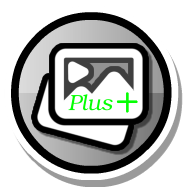
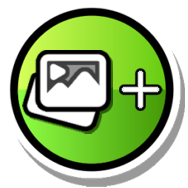
finally notification center isnt hardcoded xddd and assets upgrade

diff --git a/src/main.cpp b/src/main.cpp
@@ -21,7 +21,6 @@ class $modify(MyCreatorLayer, CreatorLayer)
 		auto myButton = CCMenuItemSpriteExtra::create(
 			CCSprite::create("betterThumbnailButton.png"_spr),
 			this,
-
 			menu_selector(MyCreatorLayer::onMyButton));
 
 		auto menu = this->getChildByID("bottom-right-menu");
@@ -30,6 +29,8 @@ class $modify(MyCreatorLayer, CreatorLayer)
 		myButton->setID("better-thumbnails-button"_spr);
 
 		menu->updateLayout();
+
+		this->setTouchEnabled(false);
 
 		return true;
 	}
@@ -44,7 +45,7 @@ class $modify(MyCreatorLayer, CreatorLayer)
 		{
 			geode::createQuickPopup("Notice", "To use the Better Level Thumbnails Mod you must <cg>authenticate</c> with your Geometry Dash account and the Level Thumbnails servers.", "No", "Authenticate", [this](auto alert, bool btn2)
 									{
-            if (btn2){
+			if (btn2){
 				// loading background
 				auto winSize = CCDirector::sharedDirector()->getWinSize();
 				auto bg = CCLayerColor::create({0, 0, 0, 200});
@@ -56,6 +57,7 @@ class $modify(MyCreatorLayer, CreatorLayer)
 				loadingLabel->setPosition({winSize.width / 2.f, winSize.height / 2.f});
 				loadingLabel->setScale(0.5f);
 				this->addChild(loadingLabel, 100);
+				this->setTouchEnabled(false);
 
 				// start the argon auth process
 				auto res = argon::startAuth([this, bg, loadingLabel](Result<std::string> res){
@@ -63,6 +65,7 @@ class $modify(MyCreatorLayer, CreatorLayer)
 						FLAlertLayer::create("Oops!","The <cy>Argon</c> auth process failed.","OK")->show();
 						bg->removeFromParent();
 						loadingLabel->removeFromParent();
+						this->setTouchEnabled(true);
 						return;
 					}
 					auto argon_token = res.unwrap();
@@ -79,7 +82,7 @@ class $modify(MyCreatorLayer, CreatorLayer)
 						})
 					);
 
-    				auto task = req.post("https://levelthumbs.prevter.me/auth/login");
+					auto task = req.post("https://levelthumbs.prevter.me/auth/login");
 
 					m_listener.bind([this, loadingLabel, bg](web::WebTask::Event* e){
 						if (auto res = e->getValue()){
@@ -89,6 +92,7 @@ class $modify(MyCreatorLayer, CreatorLayer)
 								FLAlertLayer::create("Oops",error,"OK")->show();
 								bg->removeFromParent();
 								loadingLabel->removeFromParent();
+								this->setTouchEnabled(true);
 								delete this;
 								return;
 							}
@@ -107,8 +111,8 @@ class $modify(MyCreatorLayer, CreatorLayer)
 						}
 					});
 					m_listener.setFilter(task);
-                });
-            } });
+				});
+			} });
 		}
 	}
 };

diff --git a/src/ui/NotificationUI.cpp b/src/ui/NotificationUI.cpp
@@ -32,7 +32,7 @@ bool NotificationUI::init(const std::string &title, const std::string &message)
 
     auto winSize = CCDirector::sharedDirector()->getWinSize();
 
-    float centerX = winSize.width / 2.f - 149.f;
+    float centerX = winSize.width / 2.f - popupWidth / 2.f;
     float startY = winSize.height + popupHeight;
     float endY = winSize.height - popupHeight / 2.f - 50.f;
     this->setPosition({centerX, startY});
@@ -58,6 +58,6 @@ NotificationUI *NotificationUI::create(const std::string &title, const std::stri
         ret->autorelease();
         return ret;
     }
-    delete ret;
+    CC_SAFE_DELETE(ret);
     return nullptr;
 }

diff --git a/src/ui/BetterThumbnailLayer.cpp b/src/ui/BetterThumbnailLayer.cpp
@@ -94,15 +94,6 @@ bool BetterThumbnailLayer::init()
     coinLabel->setPosition({coinLabelX, coinLabelY});
     userInfoMenu->addChild(coinLabel);
 
-    auto loadingCircle = LoadingCircle::create();
-    if (loadingCircle)
-    {
-        loadingCircle->setAnchorPoint({0.5f, 0.5f});
-        loadingCircle->setPosition({menuWidth / 2.f, menuHeight / 2.f});
-        loadingCircle->setID("user-info-loading-circle");
-        userInfoMenu->addChild(loadingCircle, 100);
-    }
-
     // Back button at top left
     auto backButton = CCMenuItemSpriteExtra::create(
         CCSprite::createWithSpriteFrameName("GJ_arrow_03_001.png"),

diff --git a/about.md b/about.md
@@ -1,7 +1,7 @@
 # Better Level Thumbnails
-An addon mod for [**Level Thumbnails**](mod:cdc.level_thumbnails). It includes some quality of life changes that allows user to upload thumbnails directly in game.
+An addon mod for [**Level Thumbnails**](mod:cdc.level_thumbnails).
 
-### <cr>You required to have the Level Thumbnails mod already installed</c>
+### <cr>You are required to have the Level Thumbnails mod already installed</c>
 
 # Features
 - View your uploaded thumbnails
@@ -10,4 +10,6 @@ An addon mod for [**Level Thumbnails**](mod:cdc.level_thumbnails). It includes s
 - Earn **Thumbnail Points** for uploading thumbnails
 
 # Credits
-Lots and **LOTS** of credits to [ArcticWoof](user:7689052) he improved my silly code and did all to most of the ui stuff lol
+- [ArcticWoof](user:7689052) - UI Design and code cleanup
+- [prevter](https://github.com/Prevter) - Level Thumbnails API Server
+- [Sk23](https://github.com/Skepper23) - Logo and Sprites assets
